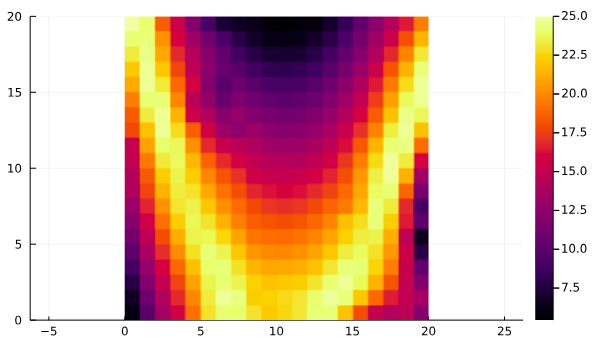
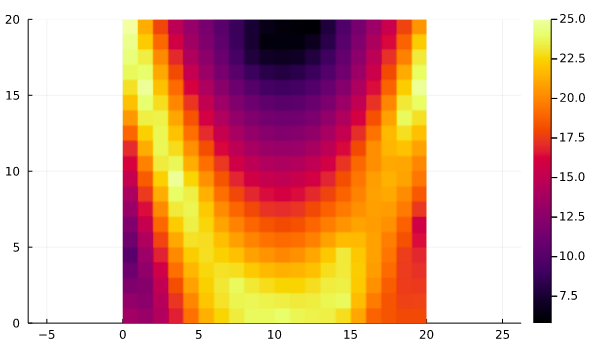
Correction for KC

Changed region(s): [[0.0, 0.0289, 1.0, 0.9827], [0.4257, 0.0867, 0.5473, 0.1445], [0.4257, 0.1734, 0.5169, 0.2023]]

diff --git a/README.md b/README.md
@@ -113,8 +113,9 @@ lpars = smoothpars(rawlpars, searcher)
 # rescale magnitude of range2 to between 0.25 and 1.0
 rescale_magnitude!(lpars, r2=(0.25,1.0))
 
-# set reference axis to Y; range will be fixed in that direction
-reference_magnitude!(lpars, :Y)
+# set possible reference axes to X and Y; ranges will be fixed in those directions
+lparsx = reference_magnitude(lpars, :X)
+lparsy = reference_magnitude(lpars, :Y)
 
 plot(D, alpha=0.6, colorbar=false)
 plot!(lpars,D)
@@ -139,11 +140,12 @@ to_vtk("ellipses", D, lpars)
 # pass local anisotropies to samples
 spars = nnpars(lpars, D, S)
 
-# do an unconventional variography along local Y axis
-expvario = localvariography(S, spars, :P, tol=2, maxlag=20, nlags=20, axis=:Y)
+# do an unconventional variography along local X axis (same can be done for Y)
+expvario = localvariography(S, spars, :P, tol=2, maxlag=20, nlags=20, axis=:X)
 plot(expvario)
-γ = GaussianVariogram(sill=31., range=8.)
-plot!(γ)
+γx = ExponentialVariogram(sill=32., range=40.)
+γy = GaussianVariogram(sill=32., range=8.)
+plot!(γx)
 ```
 
 <p align="center">
@@ -152,7 +154,7 @@ plot!(γ)
 
 ```julia
 # kriging using moving windows method
-MW = LocalKriging(:P => (variogram=γ, localaniso=lpars, method=:MovingWindows))
+MW = LocalKriging(:P => (variogram=γx, localaniso=lparsx, method=:MovingWindows))
 s1 = solve(P, MW)
 plot(s1,[:P])
 ```
@@ -162,8 +164,8 @@ plot(s1,[:P])
 </p>
 
 ```julia
-# kriging using kernel convolution method
-KC = LocalKriging(:P => (variogram=γ, localaniso=lpars, method=:KernelConvolution))
+# kriging using kernel convolution method (smaller search; unstable with many local variations)
+KC = LocalKriging(:P => (variogram=γy, localaniso=lparsy, method=:KernelConvolution, maxneighbors=6))
 s2 = solve(P, KC)
 plot(s2,[:P])
 ```
@@ -174,9 +176,9 @@ plot(s2,[:P])
 
 ```julia
 # deform space using kernel variogram as dissimilarity input
-Sd1, Dd1 = deformspace(S, G, lpars, KernelVariogram, γ, anchors=1500)
+Sd1, Dd1 = deformspace(S, G, lparsx, KernelVariogram, γx, anchors=1500)
 Pd1 = EstimationProblem(Sd1, Dd1, :P)
-γ1 = GaussianVariogram(sill=25., range=25.)
+γ1 = GaussianVariogram(sill=21.3, range=22.5)
 s3 = solve(Pd1, Kriging(:P => (variogram=γ1,)))
 plot(plot(to_3d(s3),[:P]), plot(georef(values(s3),G),[:P],colorbar=false))
 ```
@@ -188,9 +190,9 @@ plot(plot(to_3d(s3),[:P]), plot(georef(values(s3),G),[:P],colorbar=false))
 ```julia
 # deform space based on a graph built with average anisotropic distances
 # of the ten nearest data; do variography in multidimensional space
-LDa = graph(S, G, lpars, AnisoDistance, searcher)
+LDa = graph(S, G, lparsx, AnisoDistance, searcher)
 Sd2, Dd2 = deformspace(LDa, GraphDistance, anchors=1500)
-γ2 = GaussianVariogram(sill=35., range=18.)
+γ2 = GaussianVariogram(sill=22., range=22.)
 
 # traditional kriging in the new multidimensional space
 Pd2 = EstimationProblem(Sd2, Dd2, :P)
@@ -205,9 +207,9 @@ plot(plot(to_3d(s4),[:P]), plot(georef(values(s4),G),[:P],colorbar=false))
 ```julia
 # deform space based on a graph built with kernel variogram of the ten
 # nearest data; do variography in multidimensional space
-LDv = graph(S, G, lpars, KernelVariogram, γ, searcher)
+LDv = graph(S, G, lparsy, KernelVariogram, γy, searcher)
 Sd3, Dd3 = deformspace(LDv, GraphDistance, anchors=1500)
-γ3 = GaussianVariogram(sill=9., range=30.)
+γ3 = NuggetEffect(1.0) + GaussianVariogram(sill=21., range=22.)
 
 # traditional kriging in the new multidimensional space
 Pd3 = EstimationProblem(Sd3, Dd3, :P)
@@ -220,7 +222,7 @@ plot(plot(to_3d(s5),[:P]), plot(georef(values(s5),G),[:P],colorbar=false))
 </p>
 
 ```julia
-γomni = GaussianVariogram(sill=35., range=11.)
+γomni = GaussianVariogram(sill=32., range=11.)
 OK = Kriging(:P => (variogram=γomni, maxneighbors=20))
 s0 = solve(P, OK)
 plot(s0,[:P])
